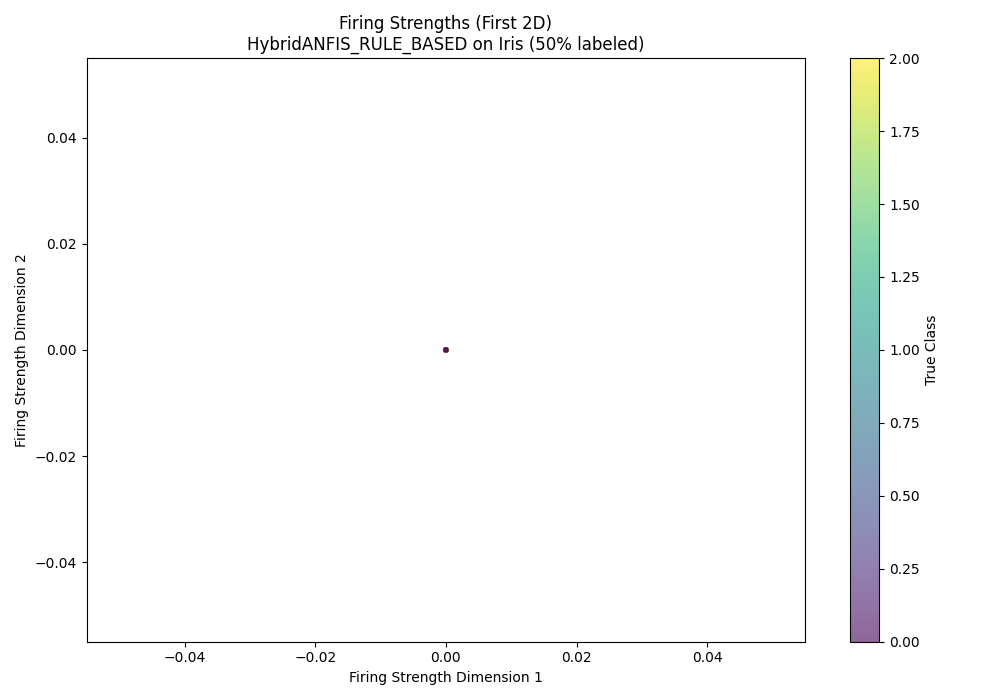
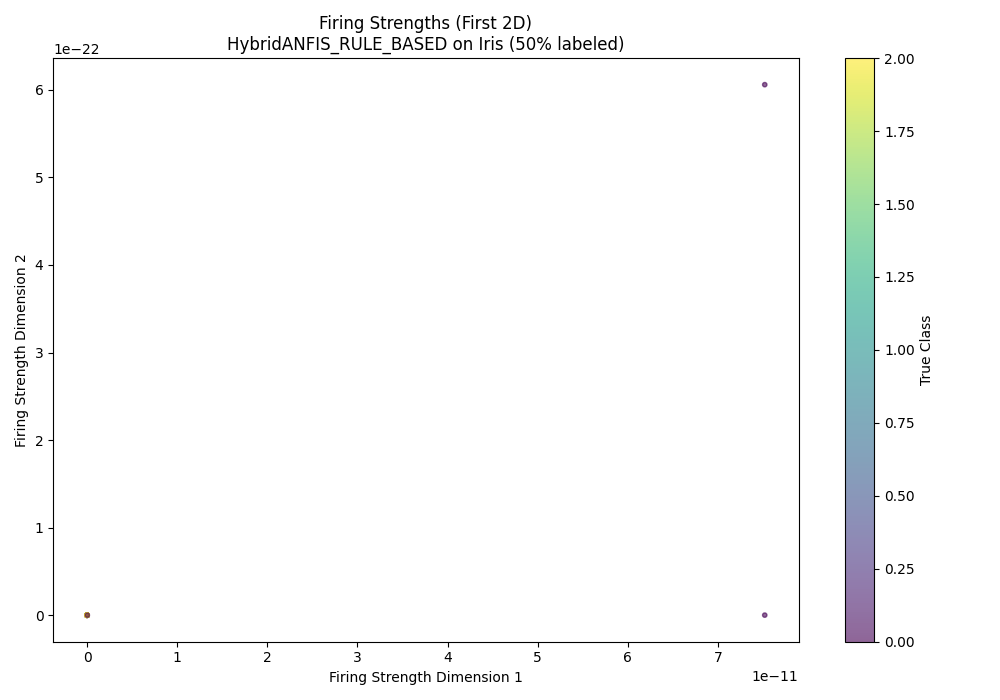
new exp series

diff --git a/rule_based_trainers.py b/rule_based_trainers.py
@@ -5,12 +5,14 @@ import torch.nn as nn # For CrossEntropyLoss in POPFNN
 
 from anfis_hybrid import HybridANFIS
 from PopFnn import POPFNN
+from anfisHelper import initialize_mfs_with_kmeans, initialize_mfs_with_fcm, set_rule_subset
 
 def train_hybrid_anfis_rule_ssl(X_l, y_l, X_u, input_dim, num_classes, device,
                                 num_mfs=4, max_rules=1000, epochs=200, lr=5e-3, seed=42,
                                 initial_train_ratio=0.2, rule_conf_thresh=0.9, firing_thresh=0.5, **kwargs):
-    """Trains HybridANFIS using rule-based self-training."""
     model = HybridANFIS(input_dim, num_classes, num_mfs, max_rules, seed=seed).to(device)
+    X_all = torch.cat([X_l, X_u])
+    initialize_mfs_with_kmeans(model, X_all)
     opt = torch.optim.Adam([{'params': model.centers, 'lr': lr}, {'params': model.widths, 'lr': lr}])
     
     initial_epochs = int(epochs * initial_train_ratio)
@@ -69,12 +71,14 @@ def train_hybrid_anfis_rule_ssl(X_l, y_l, X_u, input_dim, num_classes, device,
 def train_popfnn_rule_ssl(X_l, y_l, X_u, input_dim, num_classes, device,
                           num_mfs=4, epochs=50, lr=5e-4, seed=42, 
                           rule_conf_thresh=0.9, **kwargs):
-    """Trains POPFNN using its inherent rule structure for SSL."""
-    torch.manual_seed(seed) # Note: POPFNN trainer has its own seed setting
+    torch.manual_seed(seed) 
+
     model = POPFNN(input_dim, num_classes, num_mfs=num_mfs).to(device)
+    X_all = torch.cat([X_l, X_u])
+    initialize_mfs_with_kmeans(model, X_all)
     model.pop_init(X_l, y_l)
     
-    if model.R == 0: # No rules were generated, train supervised only
+    if model.R == 0: 
         opt = torch.optim.Adam(model.parameters(), lr=lr)
         for _ in range(epochs):
             opt.zero_grad()

diff --git a/teacher_student_trainers.py b/teacher_student_trainers.py
@@ -6,6 +6,7 @@ import torch.nn as nn
 from anfis_hybrid import HybridANFIS
 from anfis_nonHyb import NoHybridANFIS
 from PopFnn import POPFNN
+from anfisHelper import initialize_mfs_with_kmeans, initialize_mfs_with_fcm, set_rule_subset
 
 def train_hybrid_anfis_ssl(X_l, y_l, X_p, y_p, w_p,
                            input_dim, num_classes, device,
@@ -17,6 +18,7 @@ def train_hybrid_anfis_ssl(X_l, y_l, X_p, y_p, w_p,
     y_onehot = F.one_hot(y_all, num_classes).float()
 
     model = HybridANFIS(input_dim, num_classes, num_mfs, max_rules, seed=seed).to(device)
+    initialize_mfs_with_kmeans(model, X_all)
     opt = torch.optim.Adam([{'params': model.centers, 'lr': lr}, {'params': model.widths, 'lr': lr}])
 
     for epoch in range(epochs):
@@ -38,6 +40,7 @@ def train_nohybrid_anfis_ssl(X_l, y_l, X_p, y_p, w_p,
     w_all = torch.cat([torch.ones(len(y_l), device=device), w_p**2])
 
     model = NoHybridANFIS(input_dim, num_classes, num_mfs, max_rules, seed=seed, zeroG=zeroG).to(device)
+    initialize_mfs_with_kmeans(model, X_all)
     opt = torch.optim.Adam(model.parameters(), lr=lr)
     ce_loss_fn = torch.nn.CrossEntropyLoss(reduction='none')
 
@@ -58,8 +61,10 @@ def train_popfnn_ssl(X_l, y_l, X_p, y_p, w_p,
     X_all = torch.cat([X_l, X_p])
     y_all = torch.cat([y_l, y_p])
     w_all = torch.cat([torch.ones(len(y_l), device=device), w_p])
-
+    
+    
     model = POPFNN(input_dim, num_classes, num_mfs=num_mfs).to(device)
+    initialize_mfs_with_kmeans(model, X_all)
     model.pop_init(X_l, y_l)
 
     opt = torch.optim.Adam(model.parameters(), lr=lr)
